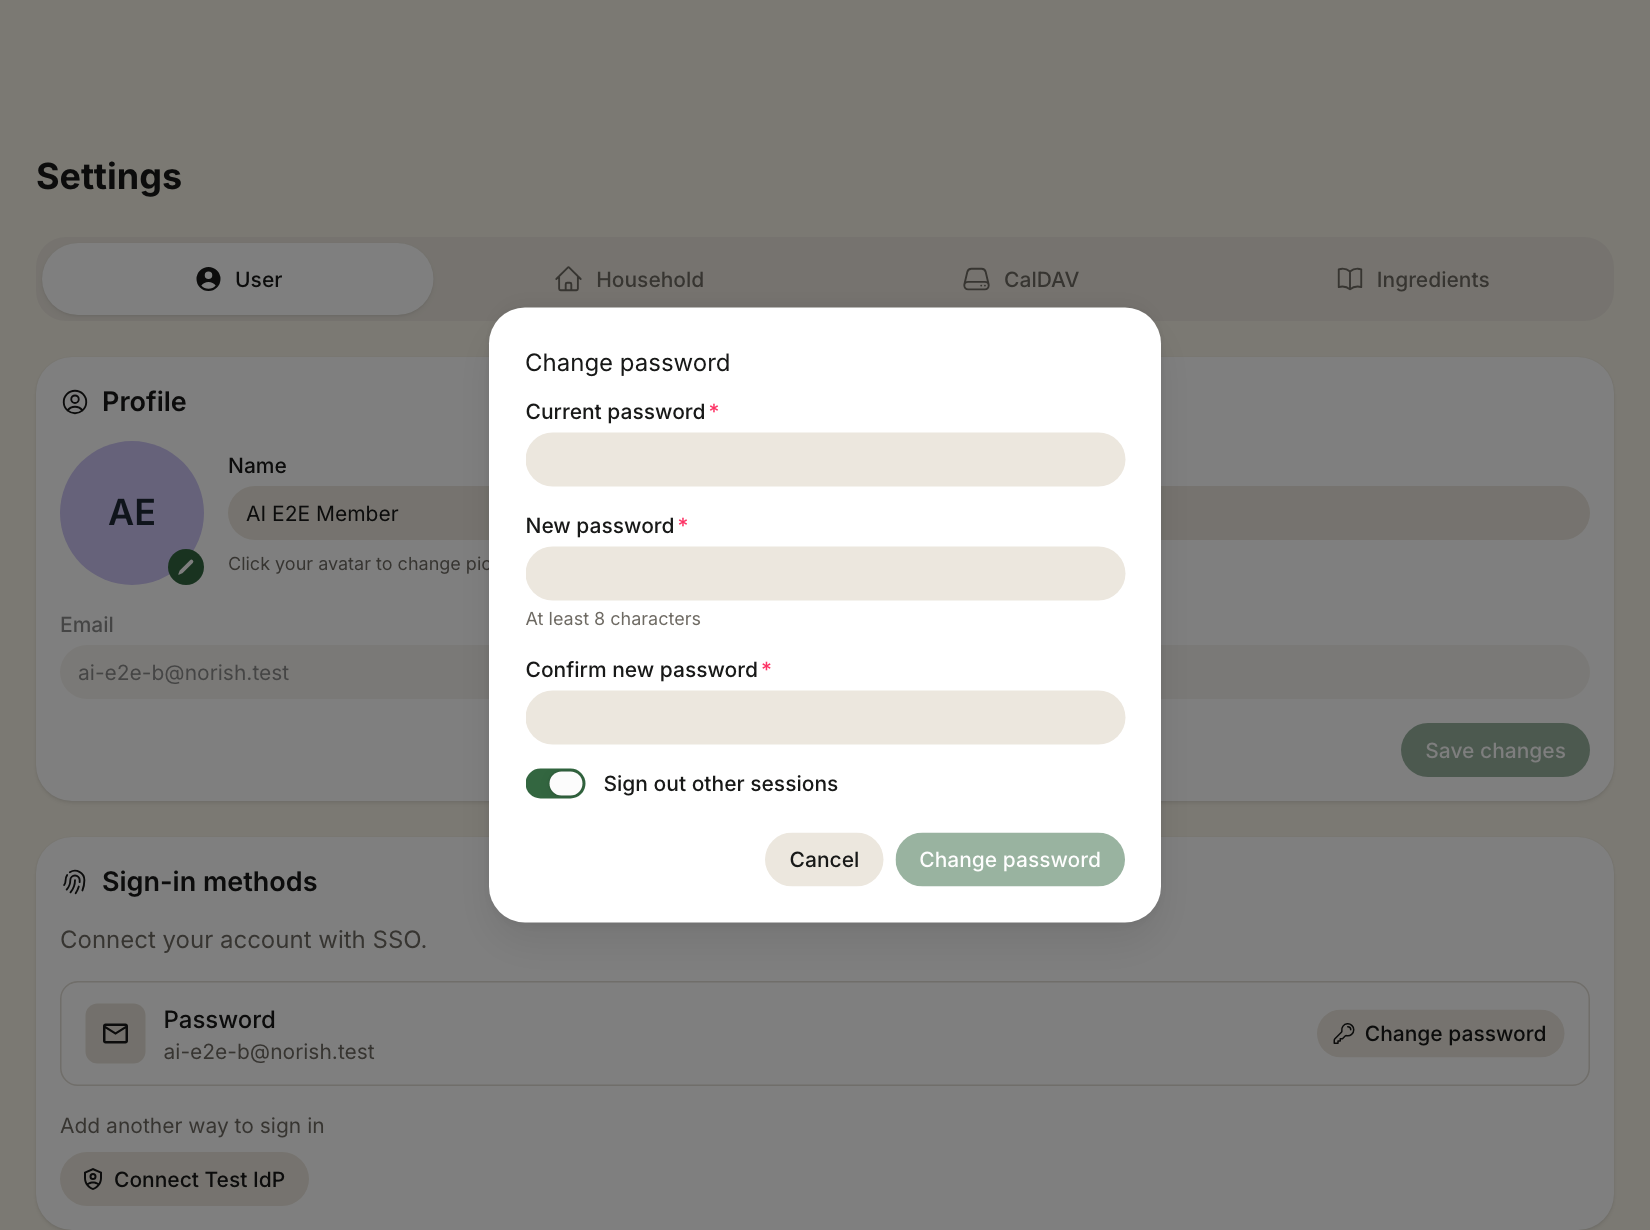
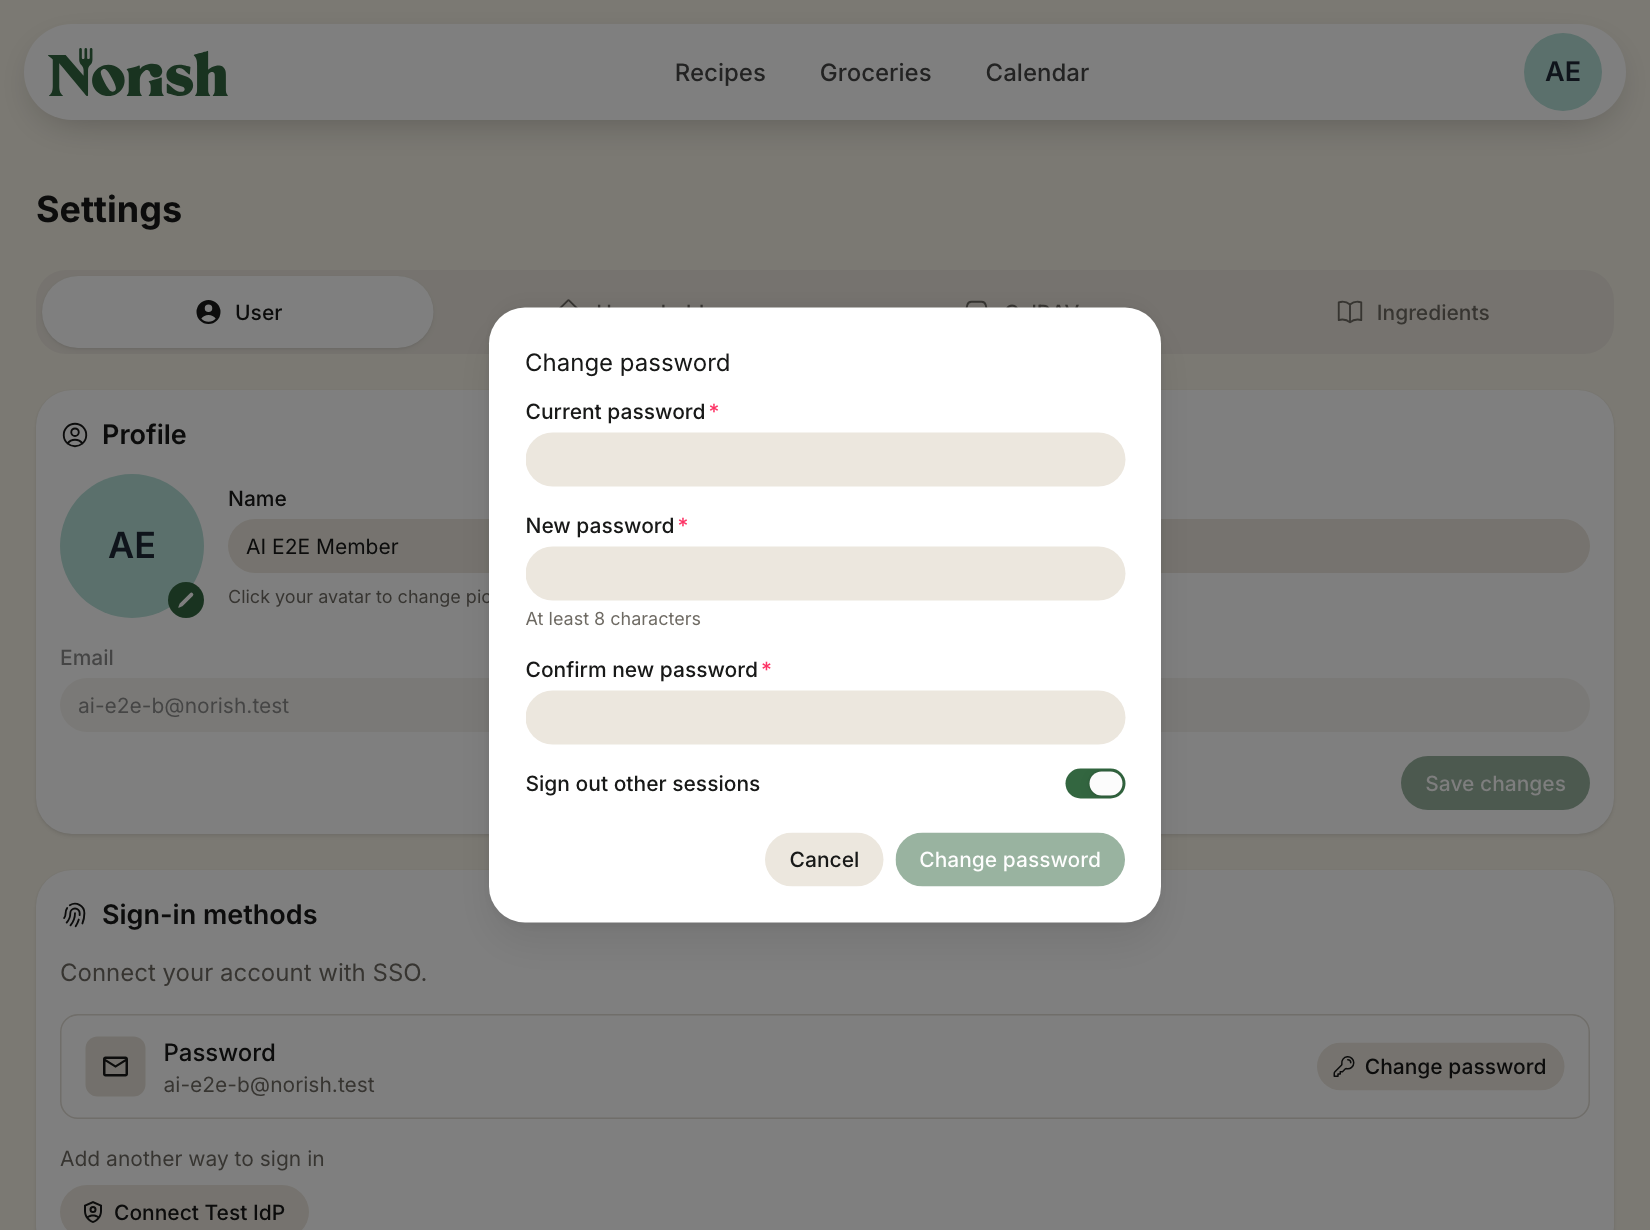
fix(settings): Sign out other sessions puts its switch at the end of the row

diff --git a/apps/web/app/(app)/settings/user/components/change-password-modal.tsx b/apps/web/app/(app)/settings/user/components/change-password-modal.tsx
@@ -121,7 +121,12 @@ function ChangePasswordForm({ close }: { close: () => void }) {
           <Input autoComplete="new-password" variant="secondary" />
           <FieldError>{tSignup("errors.passwordMismatch")}</FieldError>
         </TextField>
-        <UiSwitch isSelected={revokeOtherSessions} onValueChange={setRevokeOtherSessions}>
+        {/* The label leads and the switch sits at the row's end; the whole row still toggles. */}
+        <UiSwitch
+          className="w-full [&_[data-slot=switch-content]]:w-full [&_[data-slot=switch-content]]:flex-row-reverse [&_[data-slot=switch-content]]:justify-between"
+          isSelected={revokeOtherSessions}
+          onValueChange={setRevokeOtherSessions}
+        >
           <Label>{t("signOutOthers")}</Label>
         </UiSwitch>
       </Modal.Body>
